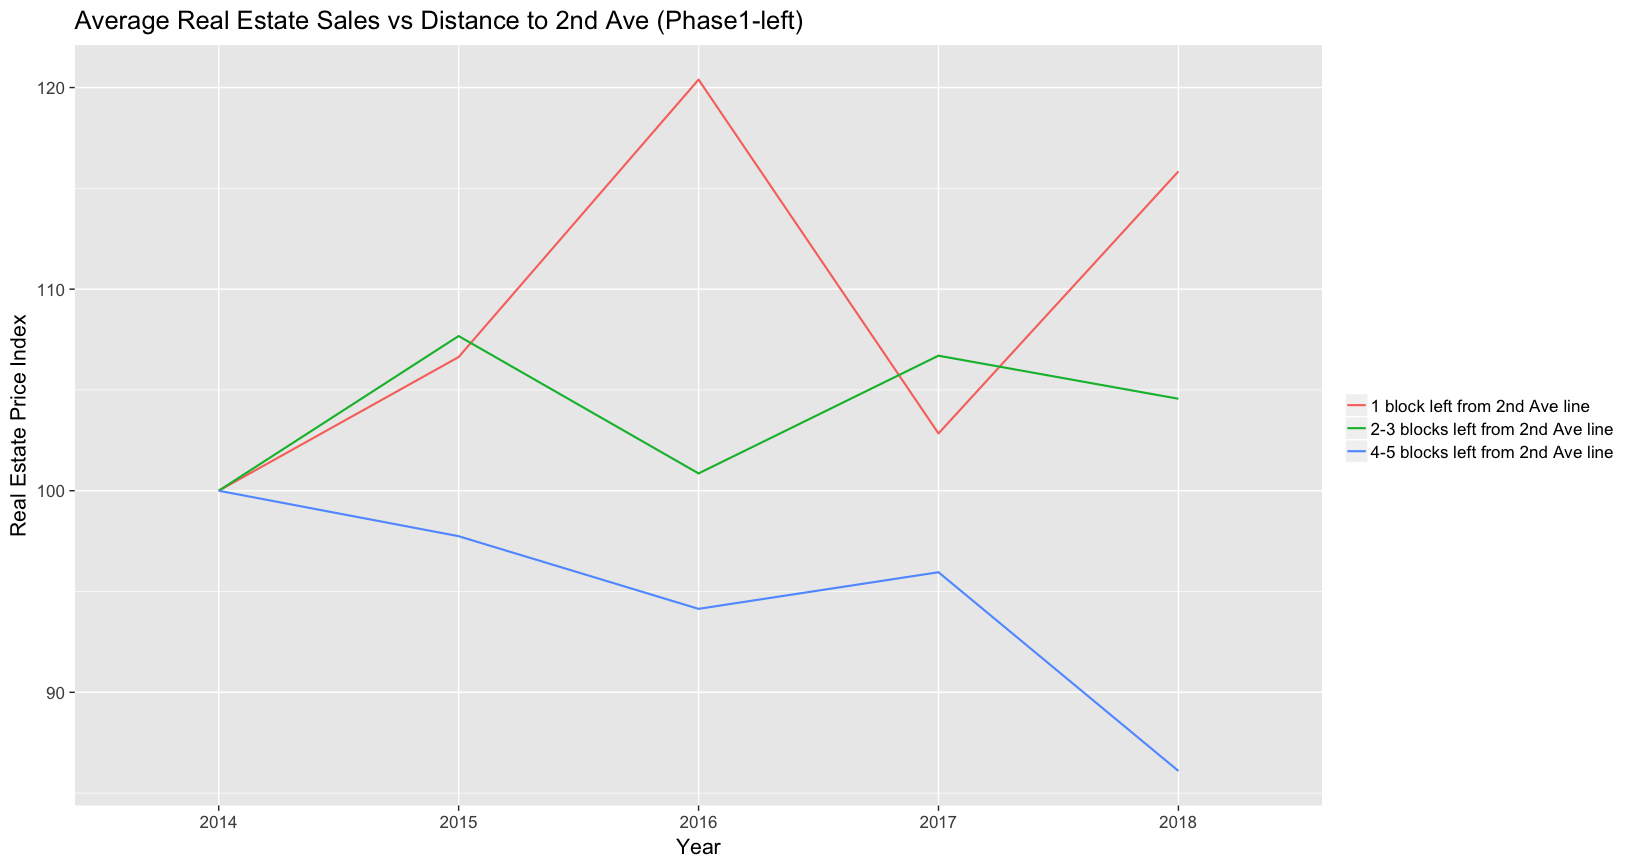
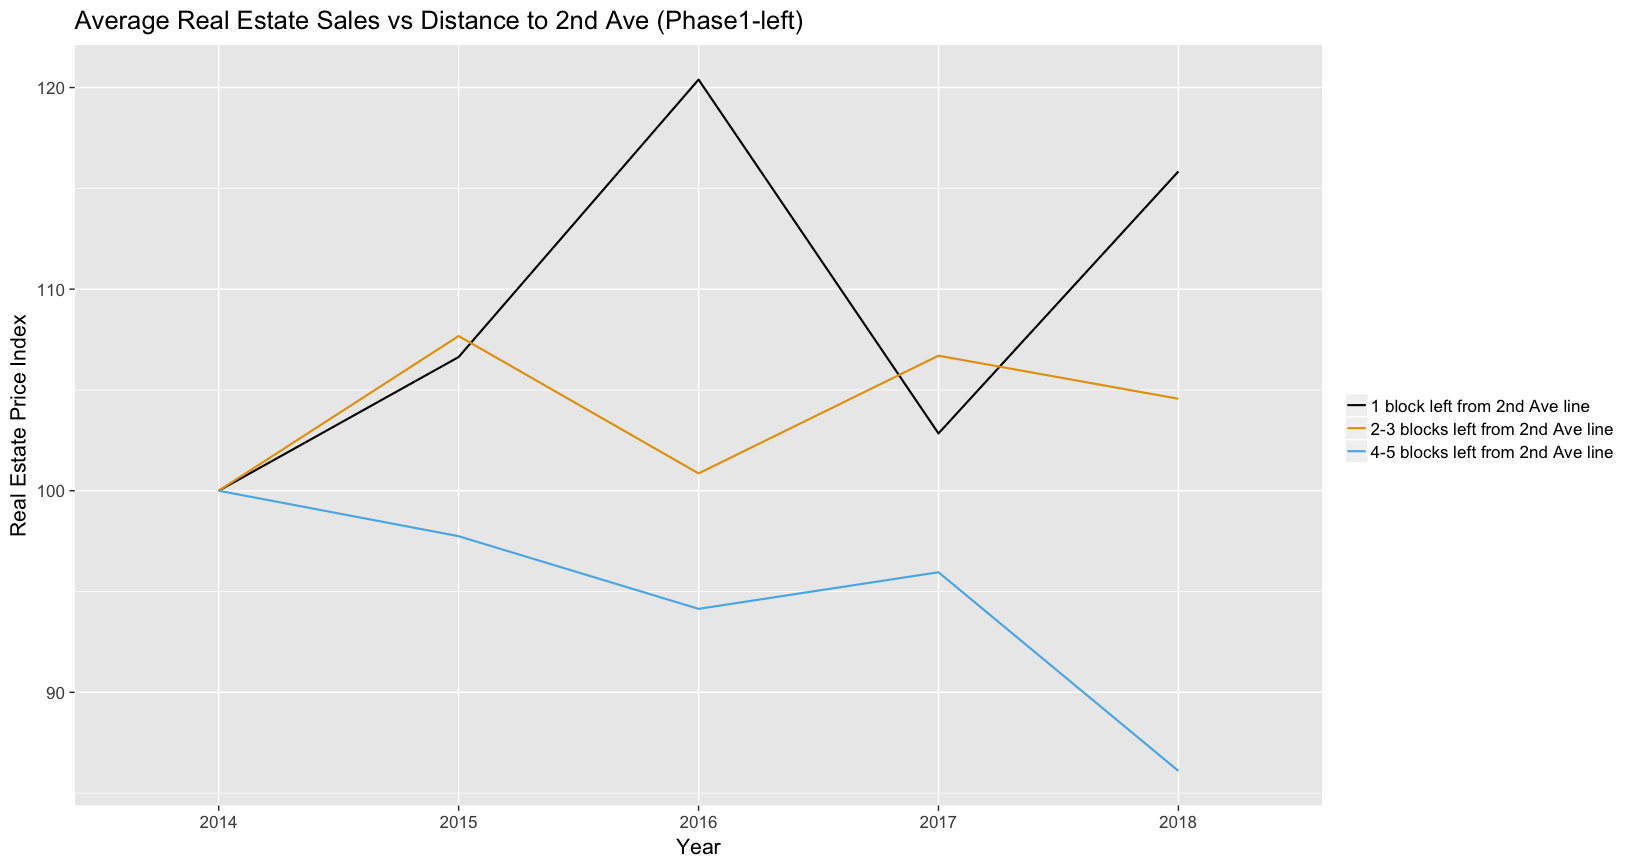
color blind real estate + parts of ex summary"

diff --git a/Executive_Summary.html b/Executive_Summary.html
@@ -189,7 +189,35 @@ $(document).ready(function () {
 
 <div id="executive-summary" class="section level2">
 <h2>Executive Summary</h2>
-<p>Guys, I need help with Executive Summary please.</p>
+<p>In the exploration in the Building Permits, Real Estate Sales, Property Market Values, Property Assessed Values, (and Dog Licencings), we want to present to you our findings of the impact of the Second Avenue subway line. In our findings, we will go over the patterns of real estate and property trends in the area based on the metrics we’ve looked at, interesting findings, and other areas we can pursue if we had more time.</p>
+<div id="how-we-started" class="section level3">
+<h3>How we started</h3>
+<p>When we first started this project, we first thought a comparison between the affected zip codes to other non-Upper East Side areas were going to be enough for us to see a major difference in prices – and we did see an effect the changes in housing prices between neighborhoods in Manhatta, but we didn’t have enough parameters to help us determine what were the driving forces. Therefore, we started to think about what was important to us as a buyer or a renter of an apartment on a daily basis. <em>Do I take the subway to work or should I walk to work? Do I mind a 10-minute walk to the subvway line? How long does it take me to get to the central business district? Are there a lot of businesses around my apartment?</em> These are all questions we think about before we decide to settle down at a place. As a result, we realized that the the block distances to a subway station may be a better indicator of whether someone buys/rents a place.</p>
+<p>In the Phase 1 construction of the Q line, as shown below, we can see where the new line and stations are on the Upper East Side. Based on the location of the new line, we’ve looked at granularly how close each building permits filed, real estate sales, property market and assessed values properties are closed to the line and assessed its impact. Moreover, we also split our findings between blocks on the left and right of the Second Avenue line.</p>
+<div class="figure">
+<img src="images/blocksphase1.png" />
+
+</div>
+</div>
+<div id="phase-1" class="section level3">
+<h3>Phase 1</h3>
+<p>Here we’re going to describe trends in the building permits and real estate sections.</p>
+<div id="building-permits" class="section level4">
+<h4><em>Building Permits</em></h4>
+<p>With building permits, we’ve taken a look at how all of the building permits from 1990 and saw that generally speaking the count of building permits issued were more or less constant. There’s a dip in 2008 because of the economic crisis. Otherwise, counts of permits issued are increasing for blocks that are at any distance from the Second Avenue line. However, when we look down to the block level, we do see that there has been a spike in 2015, which is right before the line opened, for blocks that are one block left of the subway line, while all the permits issued dropped for the other blocks in that same here. This seems to indicate that the line is affecting neighboring permit issuance.</p>
+<div class="figure">
+<img src="EDA-Building_Permits_files/figure-html/unnamed-chunk-3-1.png" />
+
+</div>
+<p>For areas to the right of the Second Avenue line, the number of permits issued are also fairly constant, but grows at a faster rate. Its current index is at around 500 as of 2018! Originally, we only looked at more recent years and thought that areas that are closer to the Second Avenue line would more permits. However, our findings contradicts with our hypothesis. When we looked at a longer time frame, we realized that there have been more building permits issued 3/4 blocks right of the Second Avenue line than other areas! Then, the one block over follows. We think the root of the cause may be the close proximity to the water; there are more other types of constructions, in addition to residential constructions, closer to the water.</p>
+<div class="figure">
+<img src="EDA-Building_Permits_files/figure-html/unnamed-chunk-5-1.png" />
+
+</div>
+<p>For more details, please look at the “EDAV - Building Permits” section!</p>
+</div>
+<div id="real-estate-sales" class="section level4">
+<h4><em>Real Estate Sales</em></h4>
 <ul>
 <li><p>Provide a short nontechnical summary of the most revealing findings of your analysis written for a nontechnical audience (your family should be able to understand).</p></li>
 <li><p>The length should be approximately <strong>two pages</strong> (if we were using pages…)</p></li>
@@ -199,16 +227,18 @@ $(document).ready(function () {
 <p><strong>Tips for the plots</strong>:</p>
 <ul>
 <li>The order of items on the axes and legends is logical (specially, odinal variables)</li>
-<li>Error on the side of simplicity. Don’t, for example, overuse color when it’s not necessary. Ask yourself: does color make this graph any clearer? If it doesn’t, leave it out.</li>
-<li>Colors should be color vision deficiency friendly.</li>
-<li>Test your graphs on nontechnical friends and family and ask for feedback.</li>
-<li>The font size should be large enough to read clearly. The default in ggplot2 is generally too small. You can easily change it by passing the base font size to the theme, such as + theme_grey(16). (The default base font size is 11.)</li>
-<li>Units should be intuitive (Extreme example: an axis labeled in month/day/year format is intuitive, one labeled in seconds since January 1, 1970 is not.)</li>
+<li><p>Error on the side of simplicity. Don’t, for example, overuse color when it’s not necessary. Ask yourself: does color make this graph any clearer? If it doesn’t, leave it out.</p></li>
+<li><p>Colors should be color vision deficiency friendly.</p></li>
+<li><p>Test your graphs on nontechnical friends and family and ask for feedback.</p></li>
+<li><p>The font size should be large enough to read clearly. The default in ggplot2 is generally too small. You can easily change it by passing the base font size to the theme, such as + theme_grey(16). (The default base font size is 11.)</p></li>
+<li><p>Units should be intuitive (Extreme example: an axis labeled in month/day/year format is intuitive, one labeled in seconds since January 1, 1970 is not.)</p></li>
 <li>If categorical variable levels are long, set up the graph so the categorical variable is on the y-axis and the names are horizontal. A better option, if possible, is to shorten the names of the levels.</li>
-<li>Not all EDA graphs lend themselves to presentation, either because the graph form is hard to understand without practice or it’s not well labeled. The labeling problem can be solved by adding text in an image editor.</li>
-<li>Tick marks should not be labeled in scientific notation or with long strings of zeros, such as 3000000000. Instead, convert to smaller numbers and change the units: 3000000000 becomes “3” and the axis label “billions of views”.</li>
-<li>Title, axis labels, tick mark labels, and legends should be comprehensible (easy to understand) and legible (easy to read / decipher). <br><br></li>
+<li><p>Not all EDA graphs lend themselves to presentation, either because the graph form is hard to understand without practice or it’s not well labeled. The labeling problem can be solved by adding text in an image editor.</p></li>
+<li><p>Tick marks should not be labeled in scientific notation or with long strings of zeros, such as 3000000000. Instead, convert to smaller numbers and change the units: 3000000000 becomes “3” and the axis label “billions of views”.</p></li>
+<li><p>Title, axis labels, tick mark labels, and legends should be comprehensible (easy to understand) and legible (easy to read / decipher). <br><br></p></li>
 </ul>
+</div>
+</div>
 <div id="subtitle-here" class="section level3">
 <h3>Subtitle here</h3>
 </div>

diff --git a/EDA-Real_State_Sales.html b/EDA-Real_State_Sales.html
@@ -196,7 +196,8 @@ library(ggplot2)
 library(&quot;readxl&quot;)
 library(reshape)
 library(dplyr)
-library(&quot;RSQLite&quot;)</code></pre>
+library(&quot;RSQLite&quot;)
+library(&quot;ggthemes&quot;)</code></pre>
 <pre class="r"><code>data_ues_1718  &lt;- read.csv(file=&quot;data/all_ues_sales_geocode_2017-2018.csv&quot;, header=TRUE, sep=&quot;,&quot;)
 colnames(data_ues_1718)[colnames(data_ues_1718) == &quot;SALE.PRICE&quot;] &lt;- &#39;price&#39;
 colnames(data_ues_1718)[colnames(data_ues_1718) == &quot;YEAR&quot;] &lt;- &#39;year&#39;
@@ -307,7 +308,8 @@ ggplot(data_phase1_left_edited, aes(x= year_factor, y = index, group = Distance,
     ggtitle(&quot;Average Real Estate Sales vs Distance to 2nd Ave (Phase1-left)&quot;) +
     labs (x = &quot;Year&quot;, y = &quot;Real Estate Price Index&quot;) +
     theme_grey(16) +
-    theme(legend.title = element_blank())</code></pre>
+    theme(legend.title = element_blank()) +
+    scale_colour_colorblind()</code></pre>
 <p><img src="EDA-Real_State_Sales_files/figure-html/unnamed-chunk-5-1.png" /><!-- --></p>
 <p><strong>Conclusions:</strong> From the graph above, it seems that the prices are correlated by the availability of the new subway stations.</p>
 <p>From the graph above, blocks one block left of the subway line have grew up to an index of ~115 since the Q line opening, blocks two/three blocks left of the subway line have stayed around the same, and blocks that are four/five blocks away have dropped to below 90 of index recently (2018). However, prices dipped for blocks that are one block away on 2017 while others grew a little bit. It’s hard to attribute what exactly is causing the sharp price change.</p>
@@ -377,7 +379,8 @@ ggplot(data_phase1_right_edited, aes(x= year_factor, y = index, group = Distance
     ggtitle(&quot;Average Real Estate Sales vs Distance to 2nd Ave (Phase1-left)&quot;) +
     labs (x = &quot;Year&quot;, y = &quot;Indexed of Average Real Estate Sale&quot;) +
     theme_grey(16) +
-    theme(legend.title = element_blank())</code></pre>
+    theme(legend.title = element_blank()) +
+  scale_colour_colorblind()</code></pre>
 <p><img src="EDA-Real_State_Sales_files/figure-html/unnamed-chunk-7-1.png" /><!-- --></p>
 <p><strong>Conclusions:</strong> From the graph above, it seems like the new subway line has some effects on the real estate prices, but there probably is a bigger driver that’s keep the three/four blocks right of the Second Avenue line in sync with the One block.</p>
 <p>From the Building Permits observation, we think that locations that are three/four blocks right from the Second Avenue line may always be a popular area because buildings there have a water view.</p>
@@ -448,7 +451,8 @@ ggplot(data_phase2_edited, aes(x= year_factor, y = index, group = Distance, colo
     ggtitle(&quot;Average Real Estate Sales Vs Distance to 2nd Ave (Phase 2)&quot;) +
     labs (x = &quot;Year&quot;, y = &quot;Indexed of Average Real Estate Sale&quot;) +
     theme_grey(16) +
-    theme(legend.title = element_blank()) </code></pre>
+    theme(legend.title = element_blank()) +
+    scale_colour_colorblind()</code></pre>
 <p><img src="EDA-Real_State_Sales_files/figure-html/unnamed-chunk-9-1.png" /><!-- --></p>
 <p><strong>Conclusions:</strong> From our observation on the Phase 2 line, it’s hard to predict how fast the real estate prices around these subway lines would respond to the constructions of the Second Avenue line. Since the lines haven’t been built, the growth/decline of the real estate around Phase 2 area is not as defined as the areas in Phase 1. Hence, we’d get a better idea once we’re closer to the finishing of the Phase 2 areas.</p>
 </div>
